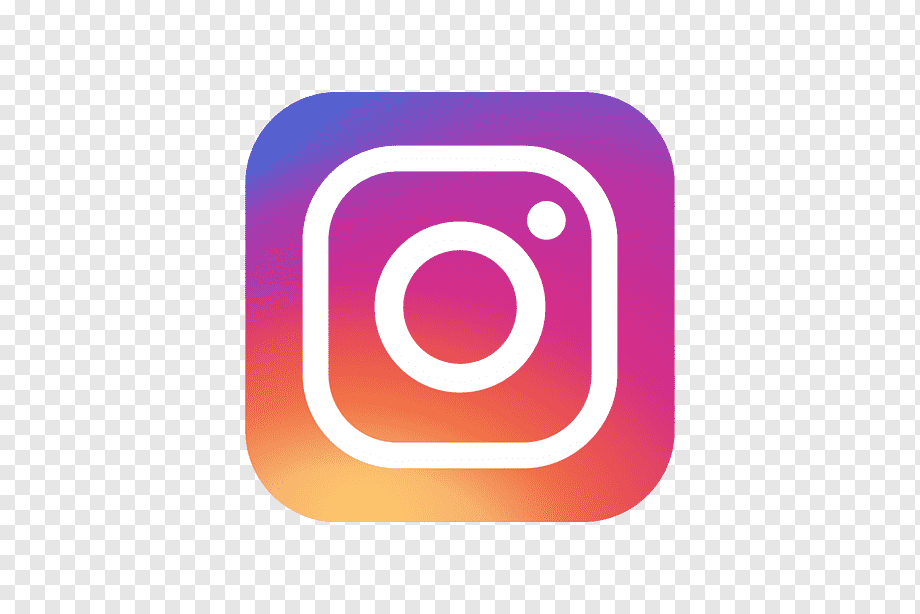
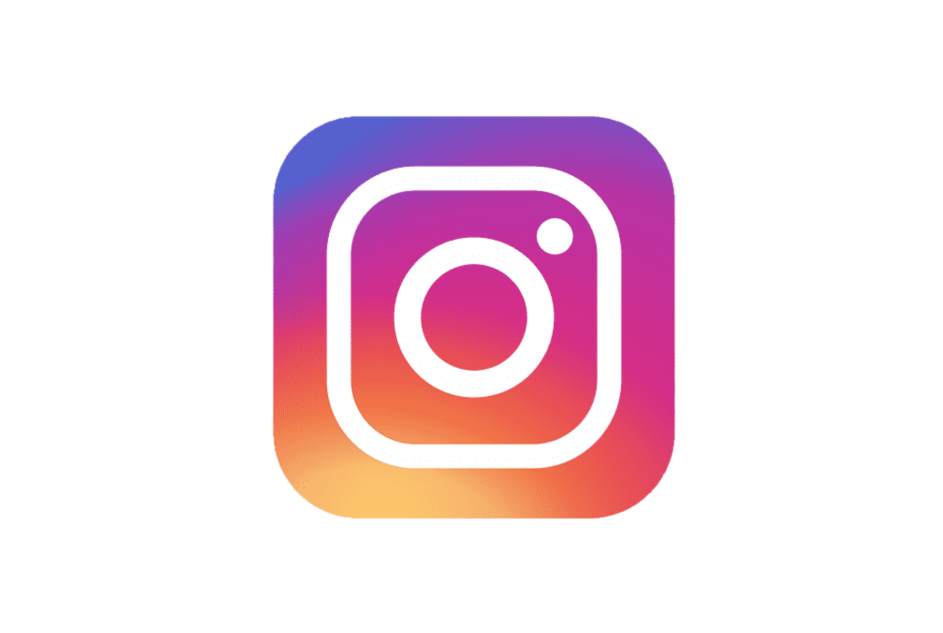
part 2 of updating social button

diff --git a/components/SocialOpenButton.tsx b/components/SocialOpenButton.tsx
@@ -61,70 +61,36 @@ export default function SocialOpenButton(which: string) {
 
       const socialIcon = whichIcon(which);
 
-     return( <TouchableOpacity 
-      onPress={() => { 
-        // Replace the link below with your own Instagram link
-        Linking.openURL(getSocialURL(which)); 
-      }}
-      style={styles.instagramButton}
-    >
-      <Image 
-        source={socialIcon} 
-        style={styles.instagramIcon} 
-      />
-    </TouchableOpacity>);
+     return( 
+  <TouchableOpacity 
+    onPress={() => { 
+      // Replace the link below with your own Instagram link
+      Linking.openURL(getSocialURL(which)); 
+    }}
+    style={styles.instagramButton}
+  >
+    <Image 
+      source={socialIcon} 
+      style={styles.instagramIcon} 
+    />
+  </TouchableOpacity>
+     );
       
 }
 
 const styles = StyleSheet.create({
-    generalStructure: {
-        alignItems: 'center',
-        justifyContent: 'center',
-        paddingVertical: 2,
-        paddingHorizontal: 32,
-        borderRadius: 35,
-        elevation: 3,
-        borderWidth: 0,
-        width: 200,
-        height: 30,
-        marginTop: 40,
-        marginBottom: 20,
-    },
-    buttonUnpressed: {
-        backgroundColor: 'white',
-    },
-    buttonPressed: {
-        backgroundColor: 'rgb(145, 145, 145)',
-    },
-    text: {
-        fontSize: 10,
-        lineHeight: 21,
-        fontWeight: 'bold',
-        letterSpacing: 0.25,
-        color: 'rgb(135, 31, 31)',
-        fontFamily: 'UbuntuBold',
-    },
-
-    instagramButton: {
-        backgroundColor: '#DD2A7B',
-        borderRadius: 20,
-        paddingHorizontal: 20,
-        paddingVertical: 10,
-        flexDirection: 'row',
-        alignItems: 'center',
-        justifyContent: 'center',
-        marginTop: 20,
-      },
-      instagramIcon: {
-        width: 20,
-        height: 20,
-        marginRight: 10,
-      },
-      instagramText: {
-        color: 'white',
-        fontWeight: 'bold',
-        fontSize: 16,
-      }
+  buttonContainer: {
+    flex: 1,
+    justifyContent: 'center',
+    alignItems: 'center',
+  },
+  instagramButton: {
+    padding: 0,
+  },
+  instagramIcon: {
+    width: 100,
+    height: 100,
+  },
 });
 
 

diff --git a/screens/HomeScreen.tsx b/screens/HomeScreen.tsx
@@ -44,12 +44,13 @@ const HomeScreen = () => {
         <View style={styles.shadow}>
           <Text style={styles.welcomeText}>Ajian</Text>
         </View>
-        <View>
+
+      </Animated.View>
+      <View style = {styles.socialButtonContainer}>
         {SocialOpenButton("twitter")}
         {SocialOpenButton("insta")}
 
         </View>
-      </Animated.View>
       <Animated.View 
         style={{
           opacity: fadeAnim,
